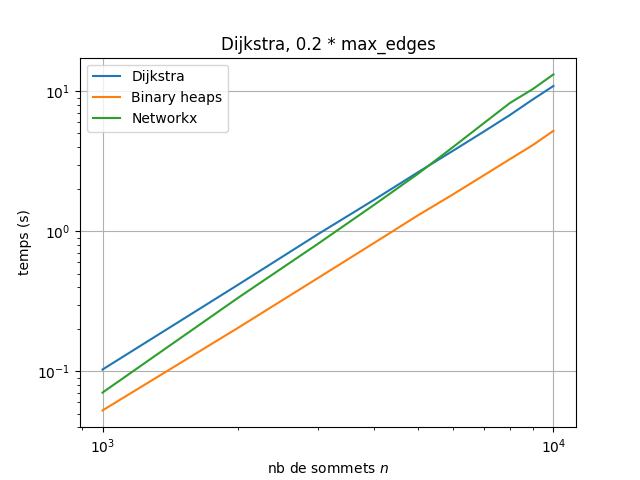
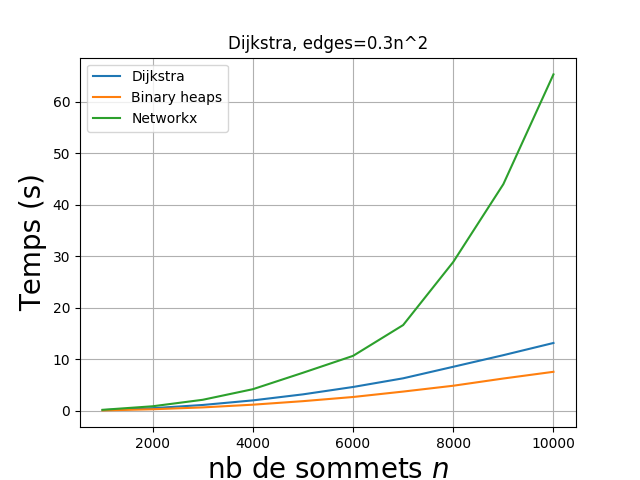
hihi

diff --git a/times/temps_all_Dijkstra.py b/times/temps_all_Dijkstra.py
@@ -2,7 +2,7 @@ from sources.graph_generation import *
 from time import process_time
 
 n = [i * 1000 for i in range(1, 11)]
-edges_percent = 0.2
+edges_percent = 0.3
 t_Dijkstra = []
 t_binary_heap = []
 t_networkx = []
@@ -10,7 +10,7 @@ t_networkx = []
 
 for i, v in enumerate(n):
     print("Etape i:", i)
-    G = generate_random_graph(v, edges_percent * v * (v - 1) / 2, directed=False)
+    G = generate_random_graph(v, edges_percent * v ** 2, directed=True)
     t0 = process_time()
     G.Dijsktra(0)
     t1 = process_time()
@@ -31,14 +31,12 @@ for i, v in enumerate(n):
 plt.plot(n, t_Dijkstra, label="Dijkstra")
 plt.plot(n, t_binary_heap, label="Binary heaps")
 plt.plot(n, t_networkx, label="Networkx")
-plt.xlabel("nb de sommets $n$")
-plt.ylabel("temps (s)")
-plt.xscale("log")
-plt.yscale("log")
+plt.xlabel("nb de sommets $n$", fontsize=20)
+plt.ylabel("Temps (s)", fontsize=20)
 plt.grid(True)
 plt.legend()
 
 
 # Renommer le fichier !!!
-plt.title("Dijkstra, 0.2 * max_edges")
-plt.savefig("imTemps_all_Dijkstra.png")
+plt.title(r"Dijkstra, edges=0.3n^2")
+plt.savefig(nsoqm)

diff --git a/tests/test_dijkstra.py b/tests/test_dijkstra.py
@@ -22,6 +22,12 @@ class TestDijkstra(unittest.TestCase):
         value1 = l == dist1
         self.assertEqual(value1, True)
 
+        J = G.to_networkx()
+        dist2 = nx.shortest_path_length(J, 0)
+        print(dist2)
+        value2 = l == dist2
+        self.assertEqual(value2, True)
+
     def testDijkstraEmpty(self):
         G = self.emptygraph
         try:
